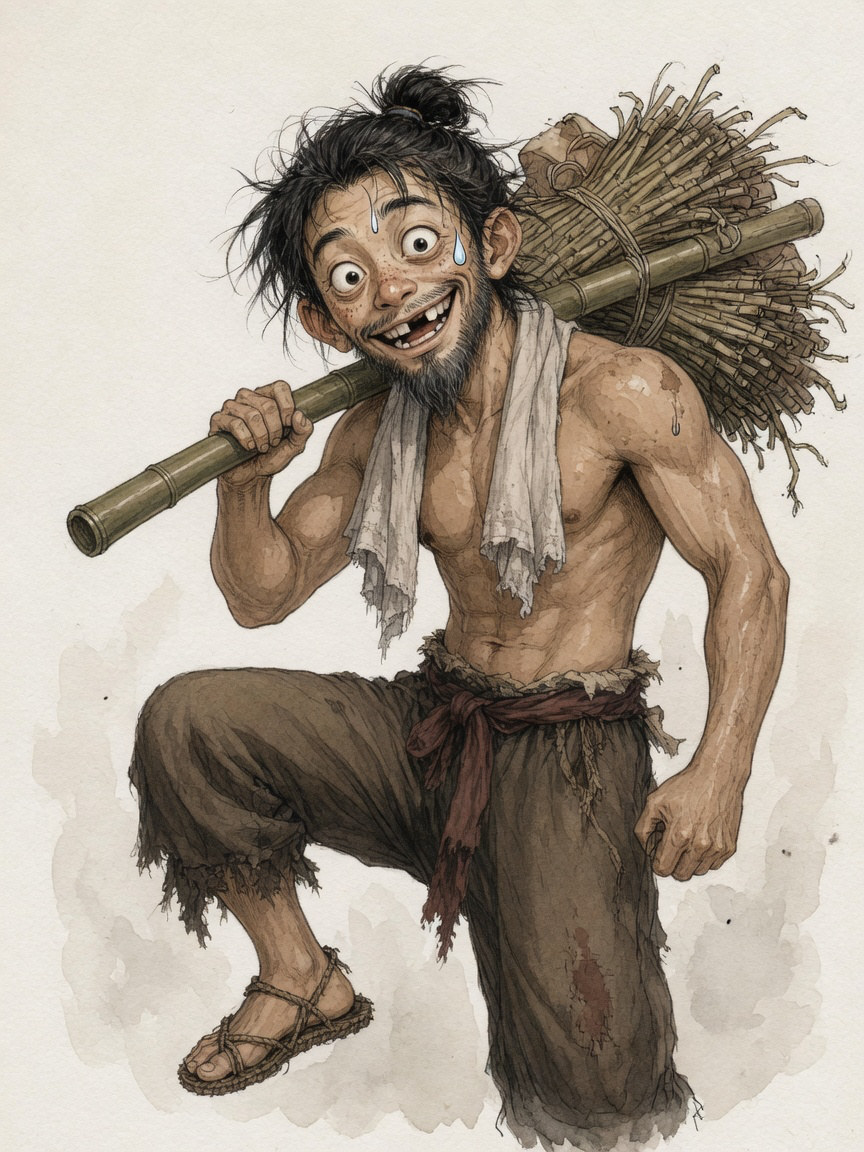
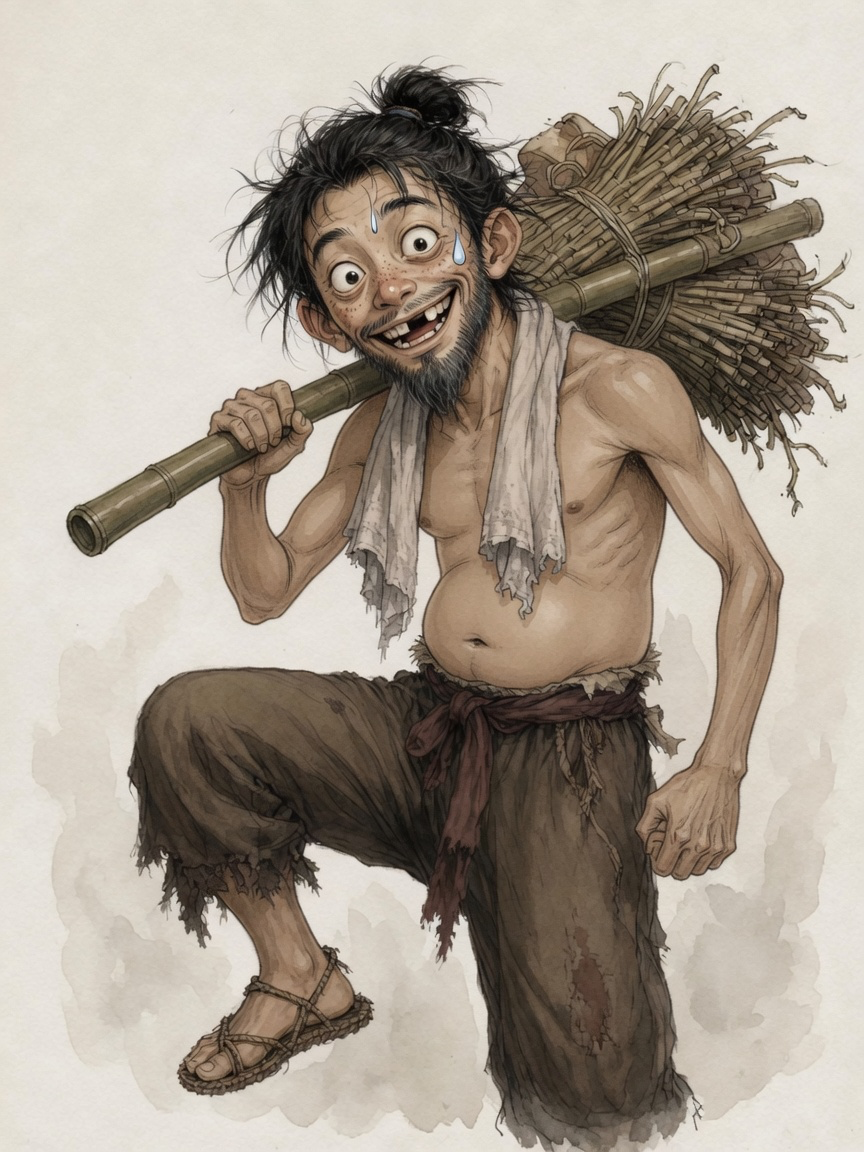
feat(sg): match the landlord rollers and soften the porter
The owner asked for the same hair rollers as the landlady, and for the porter to share the alley-uncle build of the tailor and the breakfast seller.

diff --git a/sect-chronicle/docs/PUBLIC_PORTRAIT_IMPORT_SPEC.md b/sect-chronicle/docs/PUBLIC_PORTRAIT_IMPORT_SPEC.md
@@ -22,8 +22,8 @@
 | 李莫愁 | `6760f21c342cbf72fc9fb4baf0aec8655abd0dd2` | `solo-sect/assets/portraits/v2/limochou-v2-h.png` | 480×640 | 擁有人已選的版本。 |
 | 東方不敗 | `edaf2ed60954808221447640efb79f0215dbc278` | `solo-sect/assets/portraits/v2/dongfangbubai-v2-a.png` | 480×640 | 已選的陰柔危險樣子。不改成搞笑。 |
 | 包租婆 | `6db09fd97cac3d9a66cde49103978d7793317418` | `solo-sect/assets/portraits/baozupo.png` | 480×640 | 功夫研究已引用的公開職業圖。 |
-| 包租公 | `6db09fd97cac3d9a66cde49103978d7793317418` | `solo-sect/assets/portraits/baozugong.png` | 480×640 | 同上。 |
-| 苦力強 | `6db09fd97cac3d9a66cde49103978d7793317418` | `solo-sect/assets/portraits/kulijiang.png` | 864×1152 | 2026-10-26 依阿星風格重畫的搞笑稿。上列路徑只作身份參考。 |
+| 包租公 | `6db09fd97cac3d9a66cde49103978d7793317418` | `solo-sect/assets/portraits/baozugong.png` | 864×1152 | 2026-10-26 加上與包租婆相同的粉紅、藍色髮卷。手上白圈拿掉。上列路徑只作身份參考。 |
+| 苦力強 | `6db09fd97cac3d9a66cde49103978d7793317418` | `solo-sect/assets/portraits/kulijiang.png` | 864×1152 | 2026-10-26 依阿星風格重畫，隨後把身材收成街坊叔叔。竹竿與汗留著。上列路徑只作身份參考。 |
 | 裁縫 | `6db09fd97cac3d9a66cde49103978d7793317418` | `solo-sect/assets/portraits/caifeng.png` | 864×1152 | 2026-10-26 依阿星風格重畫的搞笑稿。上列路徑只作身份參考。 |
 | 油炸鬼 | `6db09fd97cac3d9a66cde49103978d7793317418` | `solo-sect/assets/portraits/youzhagui.png` | 864×1152 | 2026-10-26 依阿星風格重畫的搞笑稿。上列路徑只作身份參考。 |
 | 火雲邪神 | `6db09fd97cac3d9a66cde49103978d7793317418` | `solo-sect/assets/portraits/huoyunxieshen.png` | 864×1152 | 2026-10-26 依擁有人要求改走阿星的搞笑路線。上列路徑只作身份參考。 |
@@ -35,7 +35,7 @@
 
 每張已知圖都有：作者 Grok Bot、來源提交、原路徑 `source.originPath`、複製後路徑、sha256、寬高、`alpha.channel: false`、錨點 `{x:0.5, y:1}`。配方類型是 `portrait`，矩形等於整張圖。生成紀錄來自 `6760f21:solo-sect/assets/portraits/PROMPTS.md`：工具 Grok Bot GenerateImage，模型版本未量測，3:4，無參考圖，無 seed。阿星與郭靖的風格記號是 `wcaricature`，黃蓉是 `inkpretty`。其餘未重畫檔的提示紀錄沒有逐檔風格記號，欄位寫 `unrecorded-for-this-file`。
 
-2026-10-26 擁有人指定：男角搞笑對齊阿星，女角清秀對齊黃蓉，周伯通對齊郭靖。因此裁縫、苦力強、油炸鬼、火雲邪神改以阿星為風格重畫，周伯通改以郭靖為風格重畫。新像素的工具是 Grok Build Imagine `image_edit`，模型版本與 seed 未記錄，權利是 `owner-requested-generation; third-party-rights-unverified`。包租公、包租婆、黃蓉、東方不敗、阿星、郭靖維持原採用圖。
+2026-10-26 擁有人指定：男角搞笑對齊阿星，女角清秀對齊黃蓉，周伯通對齊郭靖。因此裁縫、苦力強、油炸鬼、火雲邪神改以阿星為風格重畫，周伯通改以郭靖為風格重畫。新像素的工具是 Grok Build Imagine `image_edit`，模型版本與 seed 未記錄，權利是 `owner-requested-generation; third-party-rights-unverified`。同日又補兩處：包租公戴上與包租婆相同的髮卷，苦力強的身材收到跟裁縫、油炸鬼同一種街坊叔叔。包租婆、黃蓉、東方不敗、阿星、郭靖維持原採用圖。
 
 卡片氣泡顯示的 `source.path` 是複製後的 `sect-chronicle/` 路徑。pin 驗證只接受這種路徑。原路徑寫在 `originPath` 和 `recipe.derivedFrom`。
 
